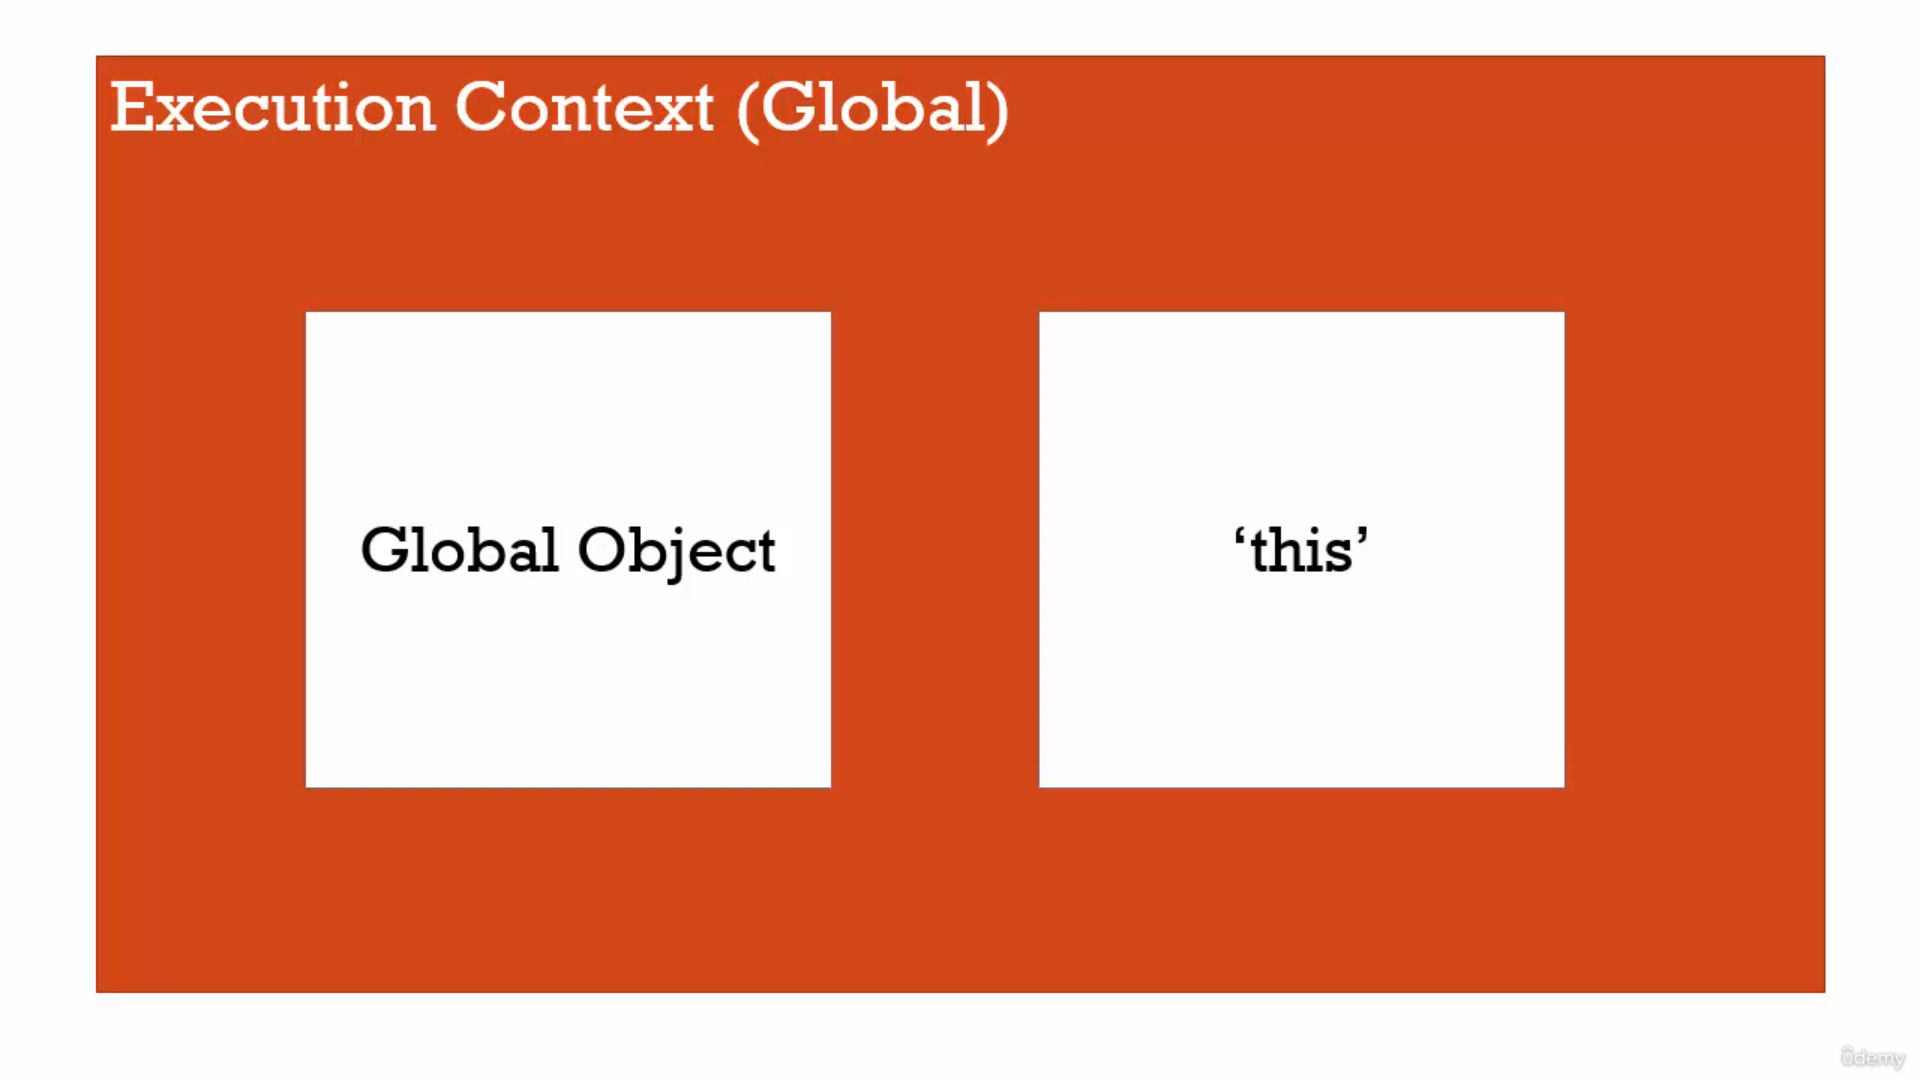
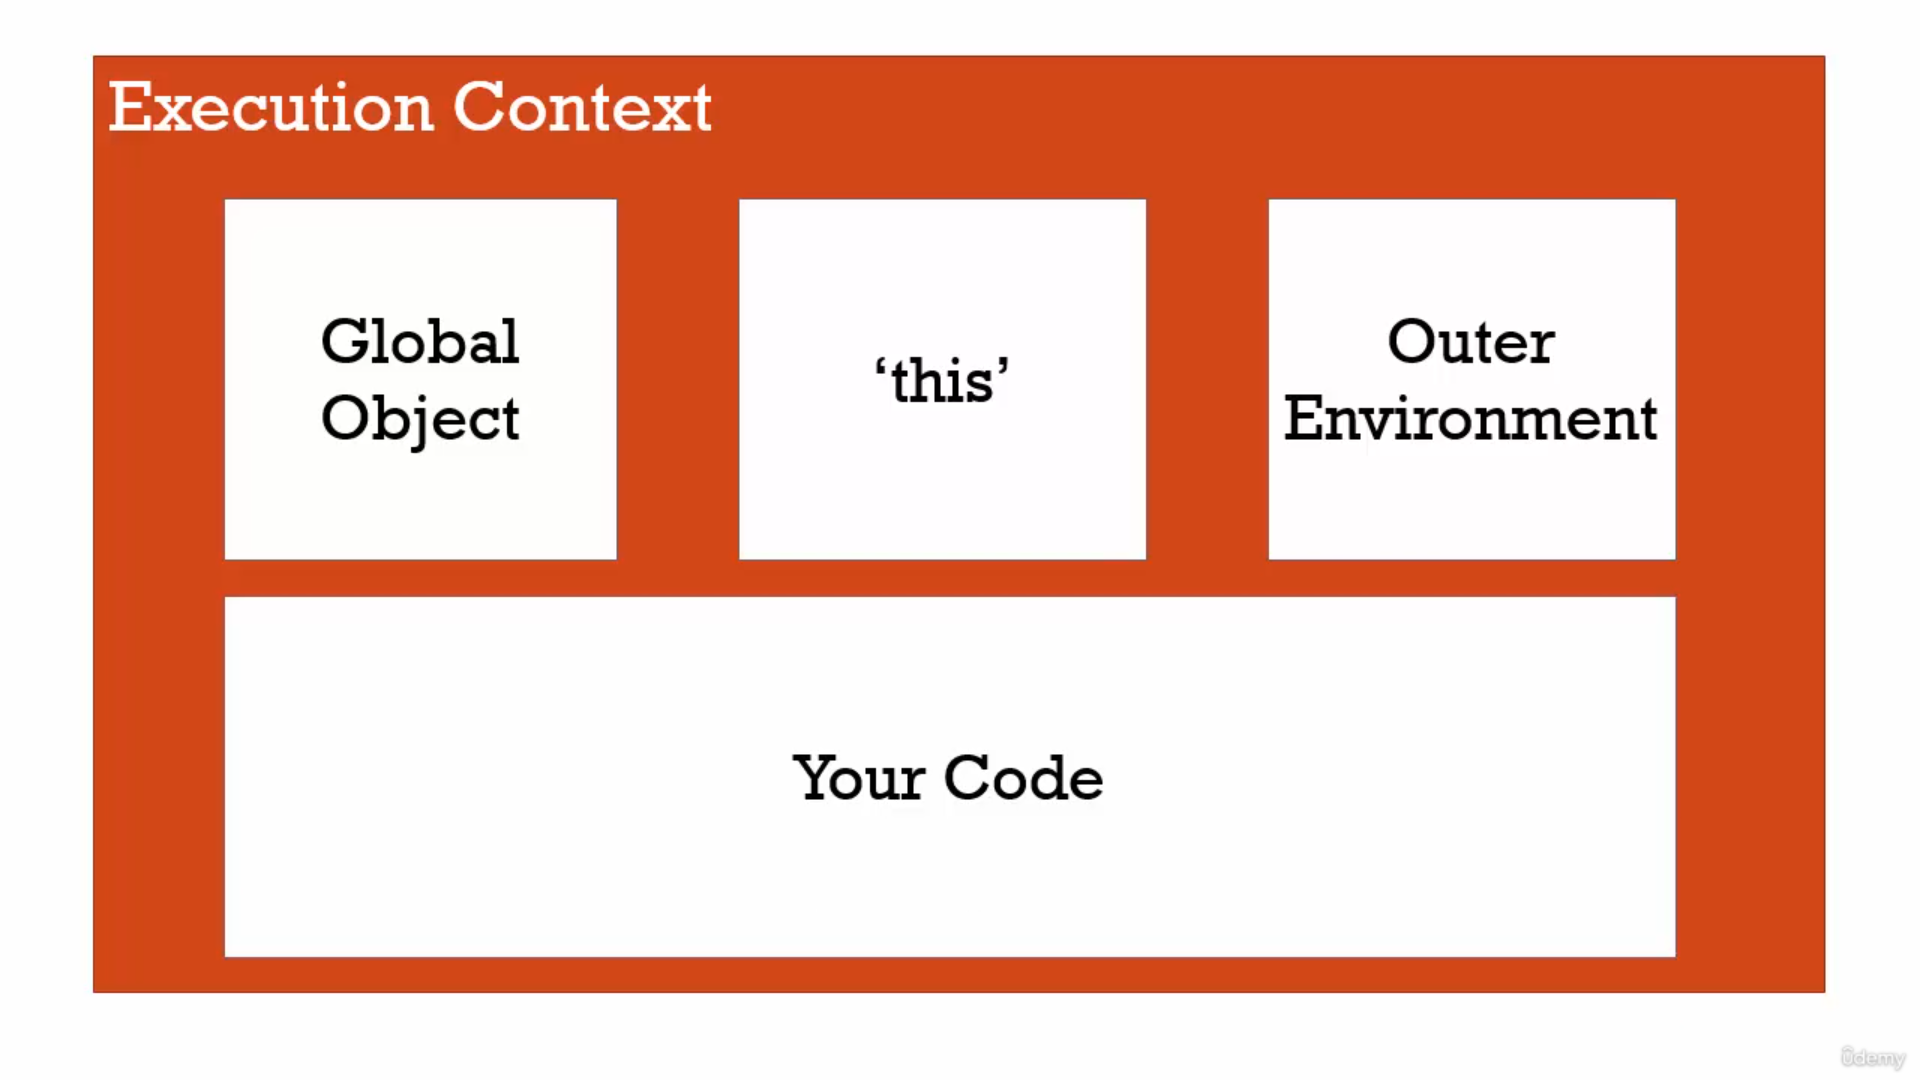
completed execution context for single function

diff --git a/20 Javascript/_Documentation_JS.md b/20 Javascript/_Documentation_JS.md
@@ -15,84 +15,17 @@
 ![Image](./images/example-name-value.png)
 
 ---
+## 📘Creation & Hoisting
 
-## 📘 The Global Environment and The Global Object
-When ever javascript engine runs it do following things
-
-![Image](./images/gloabl-environment.png)
-
----
-## 📘 Pass by Value and Pass by Reference
-
-1. __Pass by value__ : Simply means we copy the value and we create that value some where else in memory
-```javascript
-var a = 10;
-var b = a;
-var a = 11;
-
-console.log(a) // 11
-console.log(b) // 10
-```
-
-2. __Pass by Reference__ : Objects in javacsript are stored in memory and are passed by reference. This means that we don't copy the value are did with primitive types
-
-```javascript
-let obj1 = { name: "Deepu", password: "123" };
-let obj2 = obj1;
-obj2.password = '456';
-
-// { name: "Deepu", password: "456" };
-console.log(obj1);
-
-// { name: "Deepu", password: "456" };
-console.log(obj2);
-```
-
-
-## 📘use strict
-
-__Main Purpose :__ Enforce stricter parsing and error handling in your code.
-1. Prevents the use of global variables 
-
-```javascript
-city = 'London';    // become global variable
-
-console.log(city);
-
-// after using 'use strict'
-
-'use strict'
-
-city = 'London';    // cause error
-
-console.log(city);
-
-
-// another example 
-'use strict'
-
-function test(){
-    var a = b = 10;
-}
-
-console.log(a); // error
-console.log(b); // error
-
-test();
-
-```
-
-
-## 📘Hoisting
+Javascript Execution Context has two phase<br/>
+1. **Creation Phase** : Set up memory for variables and functions, also set placeholder for variables called **undefined**.
+2. **Execution Phase** : means assigne values to variables but not for functions.
 
 In javascript __variables and functions__ are all hoisted to the top of the scope in which they are declared. The scope is usually either global scope or a function scope.
  
  * varibles are always __partially hoisted__ and set to __undefined__.
  * functions are always __fully hoisted__.
 
-Javascript Execution Context has two phase<br/>
-1. Creation Phase
-2. Execution Phase
 
 so during the creation phase javascript engine moves your variables and function decelarations of the top their respective scope 
 ```javascript
@@ -154,7 +87,109 @@ function test() {
 }
 test();
 ```
+---
+## 📘Undefined vs Not Defined
+* **undefined** : is special value in javascript, it will take memory space.
 
+```javascript
+// undefined : means value is not set
+var number1;
+console.log(number1);
+number1 = 10;
+```
+```javascript
+// Not defined : means does not exist
+console.log(number1);
+```
+---
+## 📘 The Execution Context : Code Execution
+
+
+---
+
+## 📘 The Global Environment and The Global Object
+* when ever code is run in javascript it's run inside an execution context. Meaning a wrapper that the javascript engine wrap that up, that code that you've written in **global execution**.
+
+![Image](./images/gloabl-environment.png)
+
+* There will be always a **Gloabl Object**. in *Browser* it is **window**, each new tab have there own Global Execution context hence has its own window object 
+* in **Browser** : *window==this*
+
+```javascript
+var a = 10;
+function b() {
+    console.log('hello world');
+}
+a         // 10
+window.a  // 10
+this.a    // 10   
+
+b();        // hello wolrd
+window.b(); 
+this.window.b();
+```
+
+---
+## 📘 Pass by Value and Pass by Reference
+
+1. __Pass by value__ : Simply means we copy the value and we create that value some where else in memory
+```javascript
+var a = 10;
+var b = a;
+var a = 11;
+
+console.log(a) // 11
+console.log(b) // 10
+```
+
+2. __Pass by Reference__ : Objects in javacsript are stored in memory and are passed by reference. This means that we don't copy the value are did with primitive types
+
+```javascript
+let obj1 = { name: "Deepu", password: "123" };
+let obj2 = obj1;
+obj2.password = '456';
+
+// { name: "Deepu", password: "456" };
+console.log(obj1);
+
+// { name: "Deepu", password: "456" };
+console.log(obj2);
+```
+
+
+## 📘use strict
+
+__Main Purpose :__ Enforce stricter parsing and error handling in your code.
+1. Prevents the use of global variables 
+
+```javascript
+city = 'London';    // become global variable
+
+console.log(city);
+
+// after using 'use strict'
+
+'use strict'
+
+city = 'London';    // cause error
+
+console.log(city);
+
+
+// another example 
+'use strict'
+
+function test(){
+    var a = b = 10;
+}
+
+console.log(a); // error
+console.log(b); // error
+
+test();
+
+```
+---
 ## 📘 This
 The __this__ keyword is actually pretty straightforward to understand __what is does is it refers to whatever object it is directly inside (property) of.__
 
